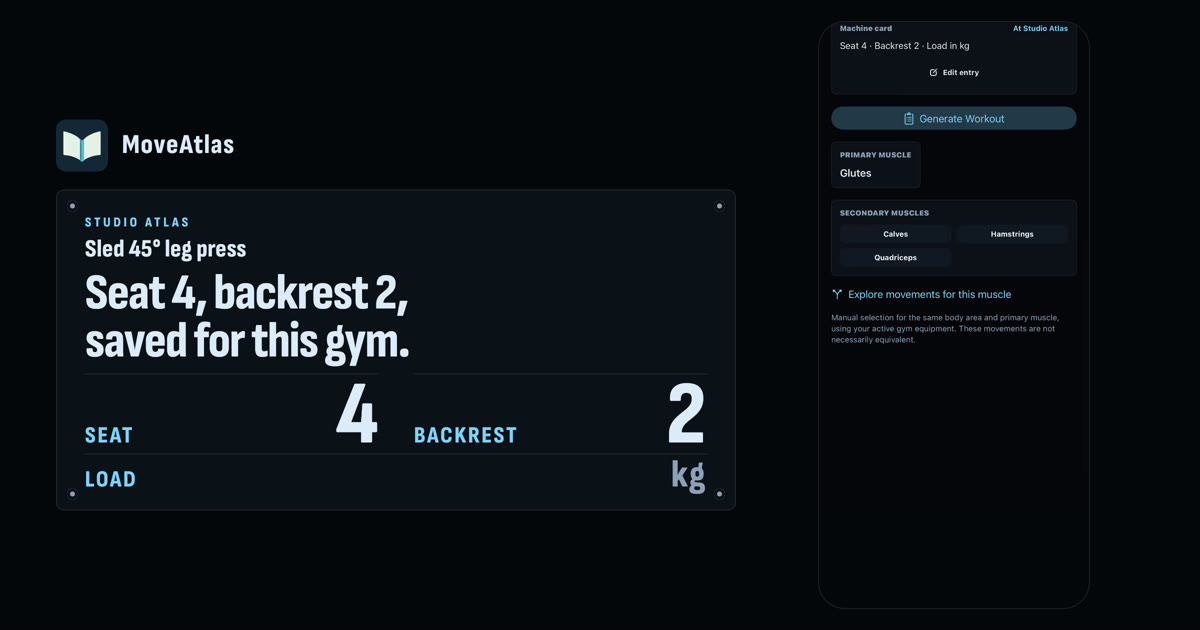
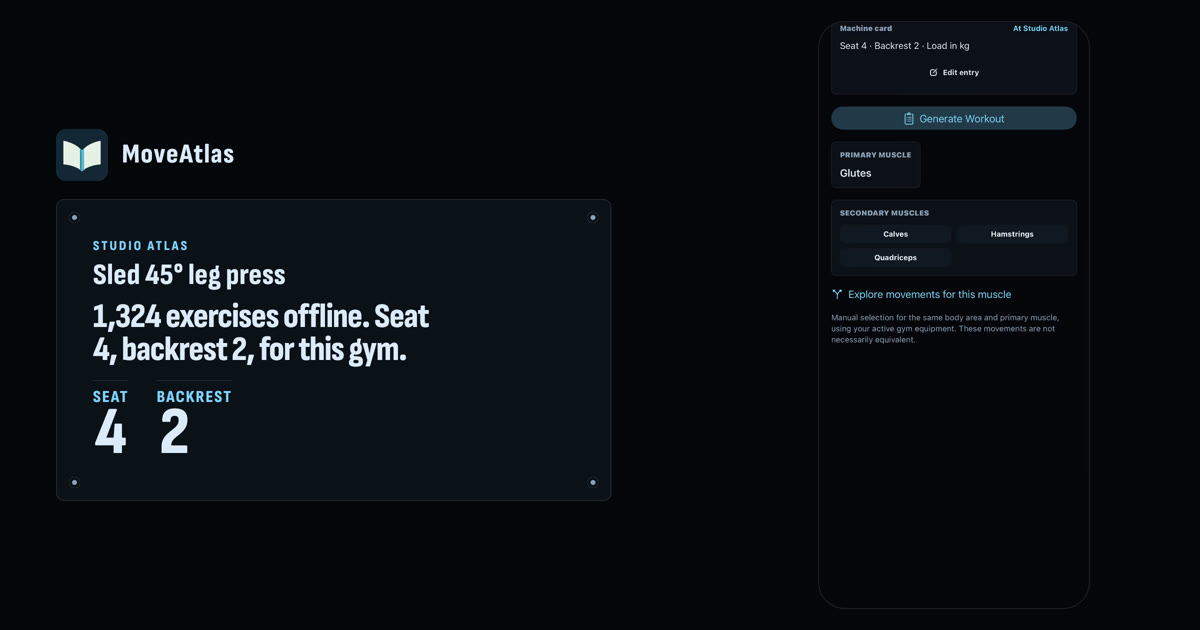
MoveAtlas: plaque compacte, titre catalogue et réglages
Les rivets dégagent le texte. La case charge sans kilo disparaît. Sur grand écran la plaque reste à côté de la fiche, chaque libellé collé à son chiffre. Le titre porte les 1 324 exercices hors ligne et le siège de cette salle.

diff --git a/apps/moveatlas/site/plate.css b/apps/moveatlas/site/plate.css
@@ -48,17 +48,16 @@ ul,ol{padding:0;list-style:none}
 /* The plate is the top of the page: the settings you need at the machine. */
 .mv-open,.mv-find,.mv-read,.mv-floor,.mv-locker,.mv-buy,.mv-close,.mv-kin,.mv-help{max-width:var(--mv-wrap);margin:0 auto;padding:clamp(36px,6vw,80px) var(--mv-side)}
 .mv-open{padding-top:12px}
-.mv-plate{position:relative;background:var(--mv-panel);border:1px solid var(--mv-line);border-radius:8px;padding:14px 16px 8px}
+.mv-plate{position:relative;background:var(--mv-panel);border:1px solid var(--mv-line);border-radius:8px;padding:40px 36px 40px;width:max-content;max-width:100%}
 .mv-rivet{position:absolute;width:11px;height:11px;border-radius:50%;background:var(--mv-muted);box-shadow:inset 0 0 0 3px var(--mv-panel),inset 0 0 0 4px var(--mv-muted)}
-.mv-rivet-a{top:10px;left:10px}.mv-rivet-b{top:10px;right:10px}.mv-rivet-c{bottom:10px;left:10px}.mv-rivet-d{bottom:10px;right:10px}
-.mv-gym{font:800 .85rem/1 var(--mv-stamp);letter-spacing:.22em;text-transform:uppercase;color:var(--mv-cyan)}
-.mv-exercise{margin-top:8px;font:800 clamp(1.4rem,5vw,2rem)/1 var(--mv-stamp);letter-spacing:.01em;color:var(--mv-ice)}
-h1{margin-top:10px;max-width:16em;font:800 clamp(1.7rem,6.6vw,3.05rem)/.96 var(--mv-stamp);letter-spacing:-.02em;text-wrap:balance}
-.mv-dials{margin-top:8px;display:flex;flex-wrap:wrap;align-items:flex-end;gap:0 10px}
-.mv-dial{flex:1 1 5.2rem;display:flex;flex-direction:column;align-items:flex-start;justify-content:flex-end;gap:2px;min-width:0;padding:8px 0 2px;border-top:1px solid var(--mv-line)}
-.mv-dial dt{font:800 clamp(.78rem,2.6vw,1.2rem)/1 var(--mv-stamp);letter-spacing:.08em;text-transform:uppercase;color:var(--mv-cyan)}
-.mv-dial dd{margin:0;font:800 clamp(2.5rem,12vw,6.4rem)/.8 var(--mv-stamp);letter-spacing:-.03em;font-variant-numeric:tabular-nums;color:var(--mv-ice)}
-.mv-dial-unit dd{font-size:clamp(1.6rem,6vw,2.6rem);letter-spacing:.04em;color:var(--mv-muted)}
+.mv-rivet-a{top:12px;left:12px}.mv-rivet-b{top:12px;right:12px}.mv-rivet-c{bottom:12px;left:12px}.mv-rivet-d{bottom:12px;right:12px}
+.mv-gym{font:800 .85rem/1 var(--mv-stamp);letter-spacing:.16em;text-transform:uppercase;color:var(--mv-cyan)}
+.mv-exercise{margin-top:8px;font:800 clamp(1.35rem,4.6vw,1.85rem)/1 var(--mv-stamp);letter-spacing:.01em;color:var(--mv-ice)}
+h1{margin-top:10px;max-width:14em;font:800 clamp(1.55rem,5.4vw,2.35rem)/.98 var(--mv-stamp);letter-spacing:-.02em;text-wrap:balance}
+.mv-dials{margin-top:14px;display:flex;flex-wrap:wrap;align-items:flex-end;justify-content:flex-start;gap:10px 28px;width:max-content;max-width:100%}
+.mv-dial{flex:0 0 auto;display:flex;flex-direction:column;align-items:flex-start;gap:2px;min-width:0;padding:8px 0 0;border-top:1px solid var(--mv-line)}
+.mv-dial dt{font:800 clamp(.78rem,2.4vw,1.05rem)/1 var(--mv-stamp);letter-spacing:.08em;text-transform:uppercase;color:var(--mv-cyan)}
+.mv-dial dd{margin:0;font:800 clamp(2.6rem,11vw,4.4rem)/.8 var(--mv-stamp);letter-spacing:-.03em;font-variant-numeric:tabular-nums;color:var(--mv-ice)}
 .mv-pitch{padding-top:16px;max-width:38rem}
 .mv-intro{font-size:clamp(1.12rem,2.4vw,1.35rem);line-height:1.55}
 .mv-stores{display:flex;flex-wrap:wrap;align-items:center;gap:12px;margin-top:14px}
@@ -128,24 +127,18 @@ h2{font:800 clamp(1.8rem,6vw,2.8rem)/.98 var(--mv-stamp);letter-spacing:-.015em;
 }
 @keyframes mv-stamp{from{transform:translateY(-.35em);opacity:0}to{transform:none;opacity:1}}
 
-/* Multi-column grids live in a min-width query. The three stamps share one plate line and wrap when the line is too narrow. */
+/* Multi-column grids live in a min-width query. The plate stays a compact block: each label sits on its digit. */
 @media (min-width:760px){
-  .mv-dials{display:grid;grid-template-columns:1fr 1fr;column-gap:36px}
-  .mv-dial{flex-direction:row;align-items:baseline;justify-content:space-between;gap:4px 16px}
-  .mv-dial dt{font-size:clamp(1.05rem,2vw,1.45rem)}
-  .mv-dial dd{font-size:clamp(3.4rem,8vw,7.2rem)}
-  .mv-dial-unit{grid-column:1 / -1}
-  .mv-dial-unit dd{font-size:clamp(1.8rem,4vw,3rem)}
   .mv-stats{grid-template-columns:repeat(4,minmax(0,1fr));column-gap:18px}
   .mv-stats{display:grid}
   .mv-stats li{border-top:0;border-left:1px solid var(--mv-line);padding:4px 0 4px 14px}
   .mv-stats li:first-child{border-left:0;padding-left:0}
 }
 @media (min-width:900px){
-  .mv-open{display:grid;grid-template-columns:minmax(0,1.15fr) minmax(280px,420px);column-gap:clamp(28px,4vw,64px);align-items:start}
-  .mv-plate{grid-column:1 / -1}
-  .mv-pitch{padding-top:28px}
-  .mv-open .mv-shot{margin-top:0}
+  .mv-open{display:grid;grid-template-columns:minmax(0,34rem) minmax(260px,400px);column-gap:clamp(28px,4vw,56px);align-items:start;justify-content:start}
+  .mv-plate{grid-column:1;grid-row:1}
+  .mv-pitch{grid-column:1;padding-top:22px}
+  .mv-open .mv-shot{grid-column:2;grid-row:1 / span 3;margin-top:0;justify-self:end}
   .mv-open .mv-fine{grid-column:1 / -1;max-width:46em}
   .mv-read{display:grid;grid-template-columns:minmax(0,1.05fr) minmax(260px,400px);column-gap:clamp(28px,5vw,72px);align-items:start}
   .mv-read .mv-shot{margin-top:8px}

diff --git a/apps/moveatlas/site/DESIGN.md b/apps/moveatlas/site/DESIGN.md
@@ -21,7 +21,7 @@ Une planche de muscles, et les exercices qui s’y rattachent. Le nom s’y prê
 
 ### Option C : « La plaque de la machine » (retenue)
 
-Sur le bâti de la presse, une plaque indique les réglages qu’on a notés la dernière fois. Le haut de page est cette plaque : Studio Atlas, presse guidée 45° (ou sled 45° leg press), siège 4, dossier 2, charge en kg. Les deux chiffres se tamponnent au chargement. La capture réelle de la fiche est juste dessous, puis le parcours dans la salle : chercher, lire les consignes, rouvrir la fiche dans la séance, retrouver Ma salle.
+Sur le bâti de la presse, une plaque indique les réglages qu’on a notés la dernière fois. Le haut de page est cette plaque, compacte : 1 324 exercices hors ligne, puis Studio Atlas, la presse guidée 45° (ou sled 45° leg press), siège 4 et dossier 2. Les deux chiffres se tamponnent au chargement, chaque libellé collé à son chiffre. La charge en kg se lit sur la capture, pas comme une case vide. À partir de 900 px la plaque reste à sa largeur de contenu et se place à côté de la fiche. En dessous, la fiche est juste sous la plaque, puis le parcours en salle : chercher, lire les consignes, rouvrir la fiche dans la séance, retrouver Ma salle.
 
 ## Pourquoi « La plaque de la machine »
 
